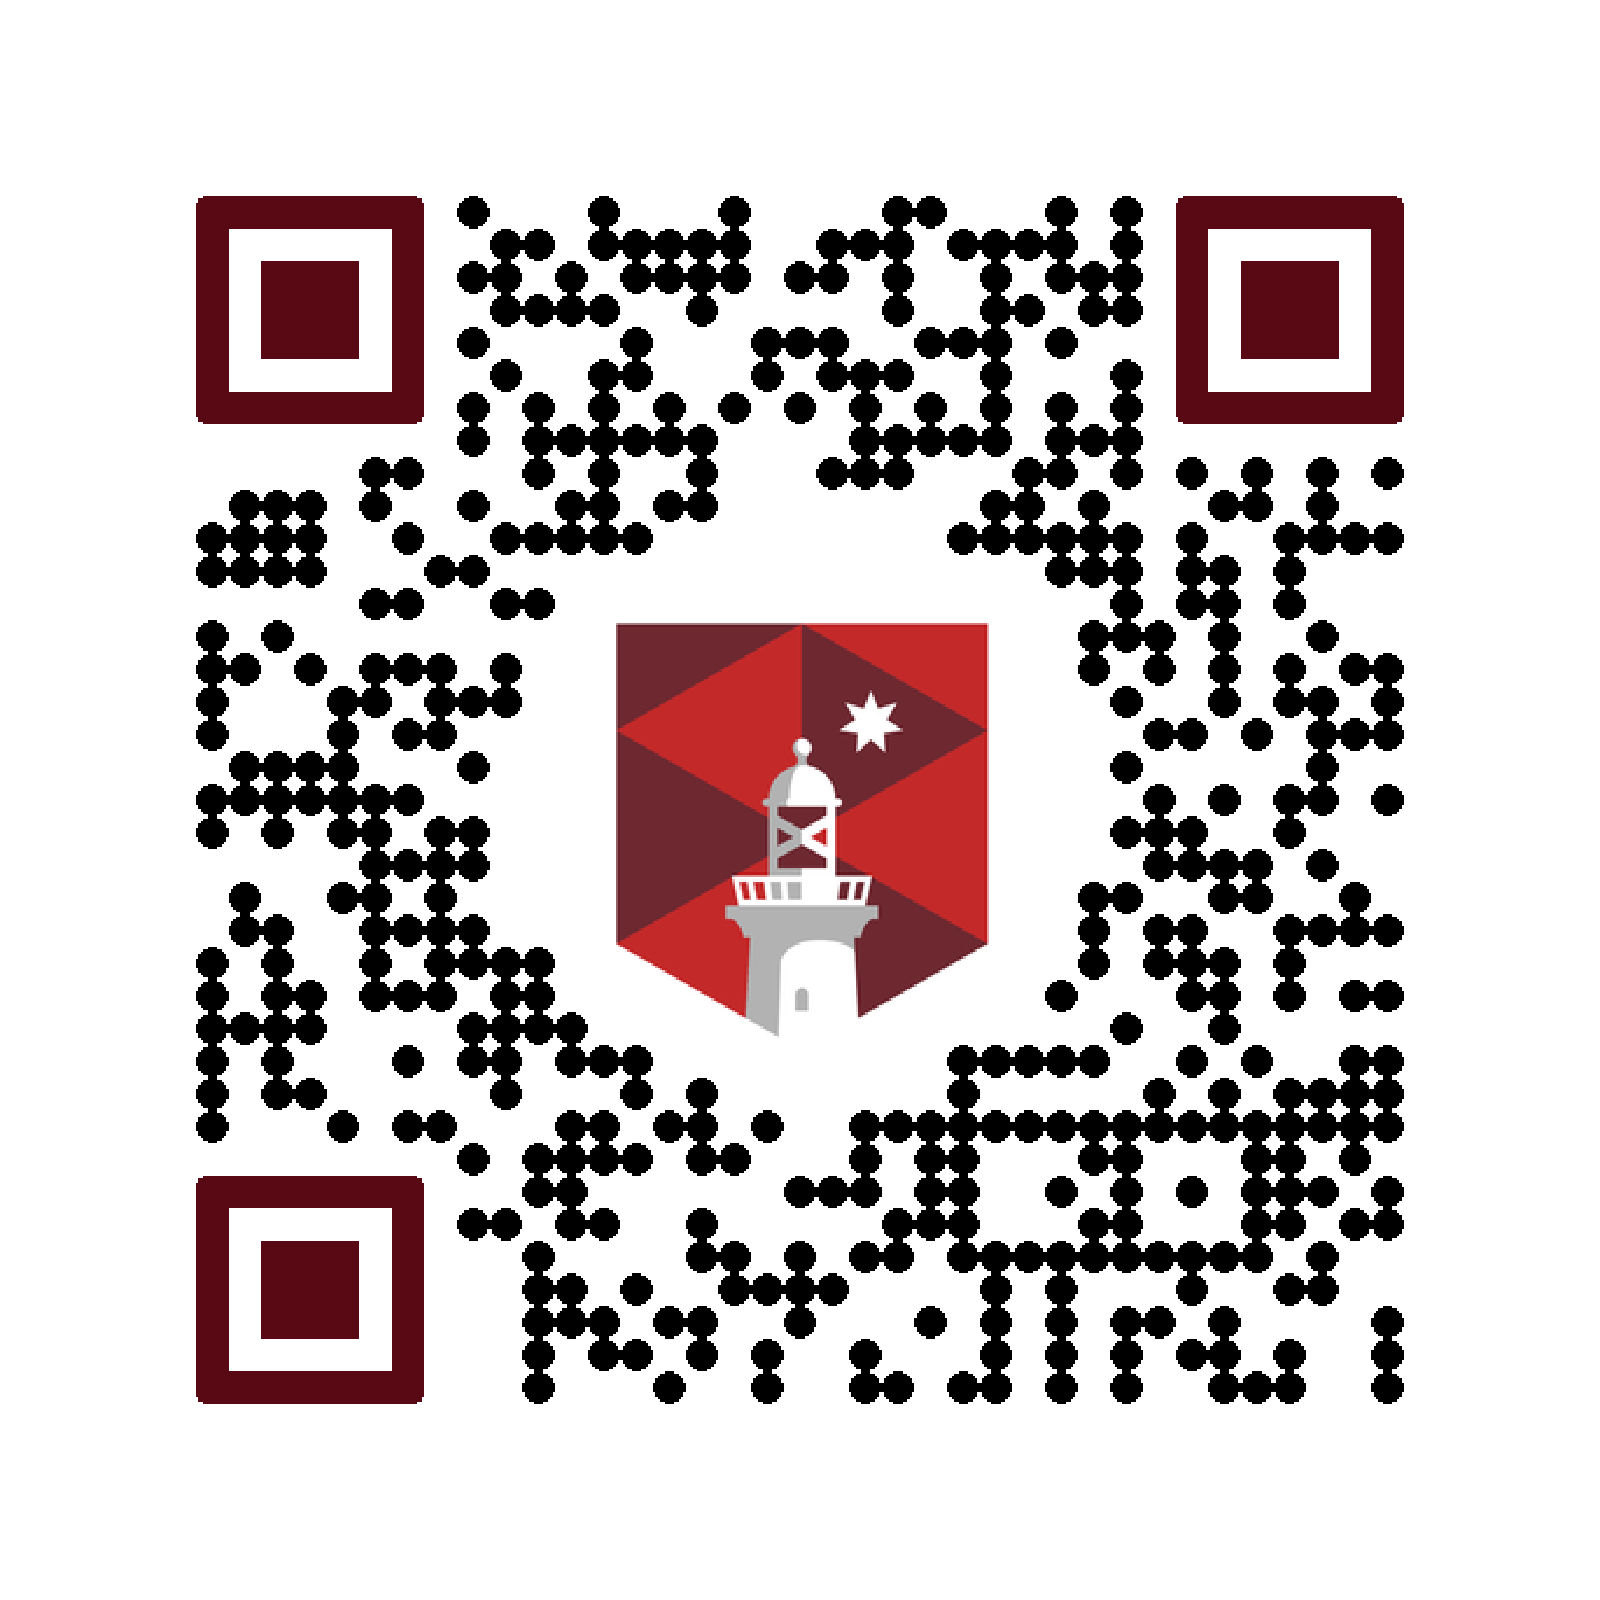
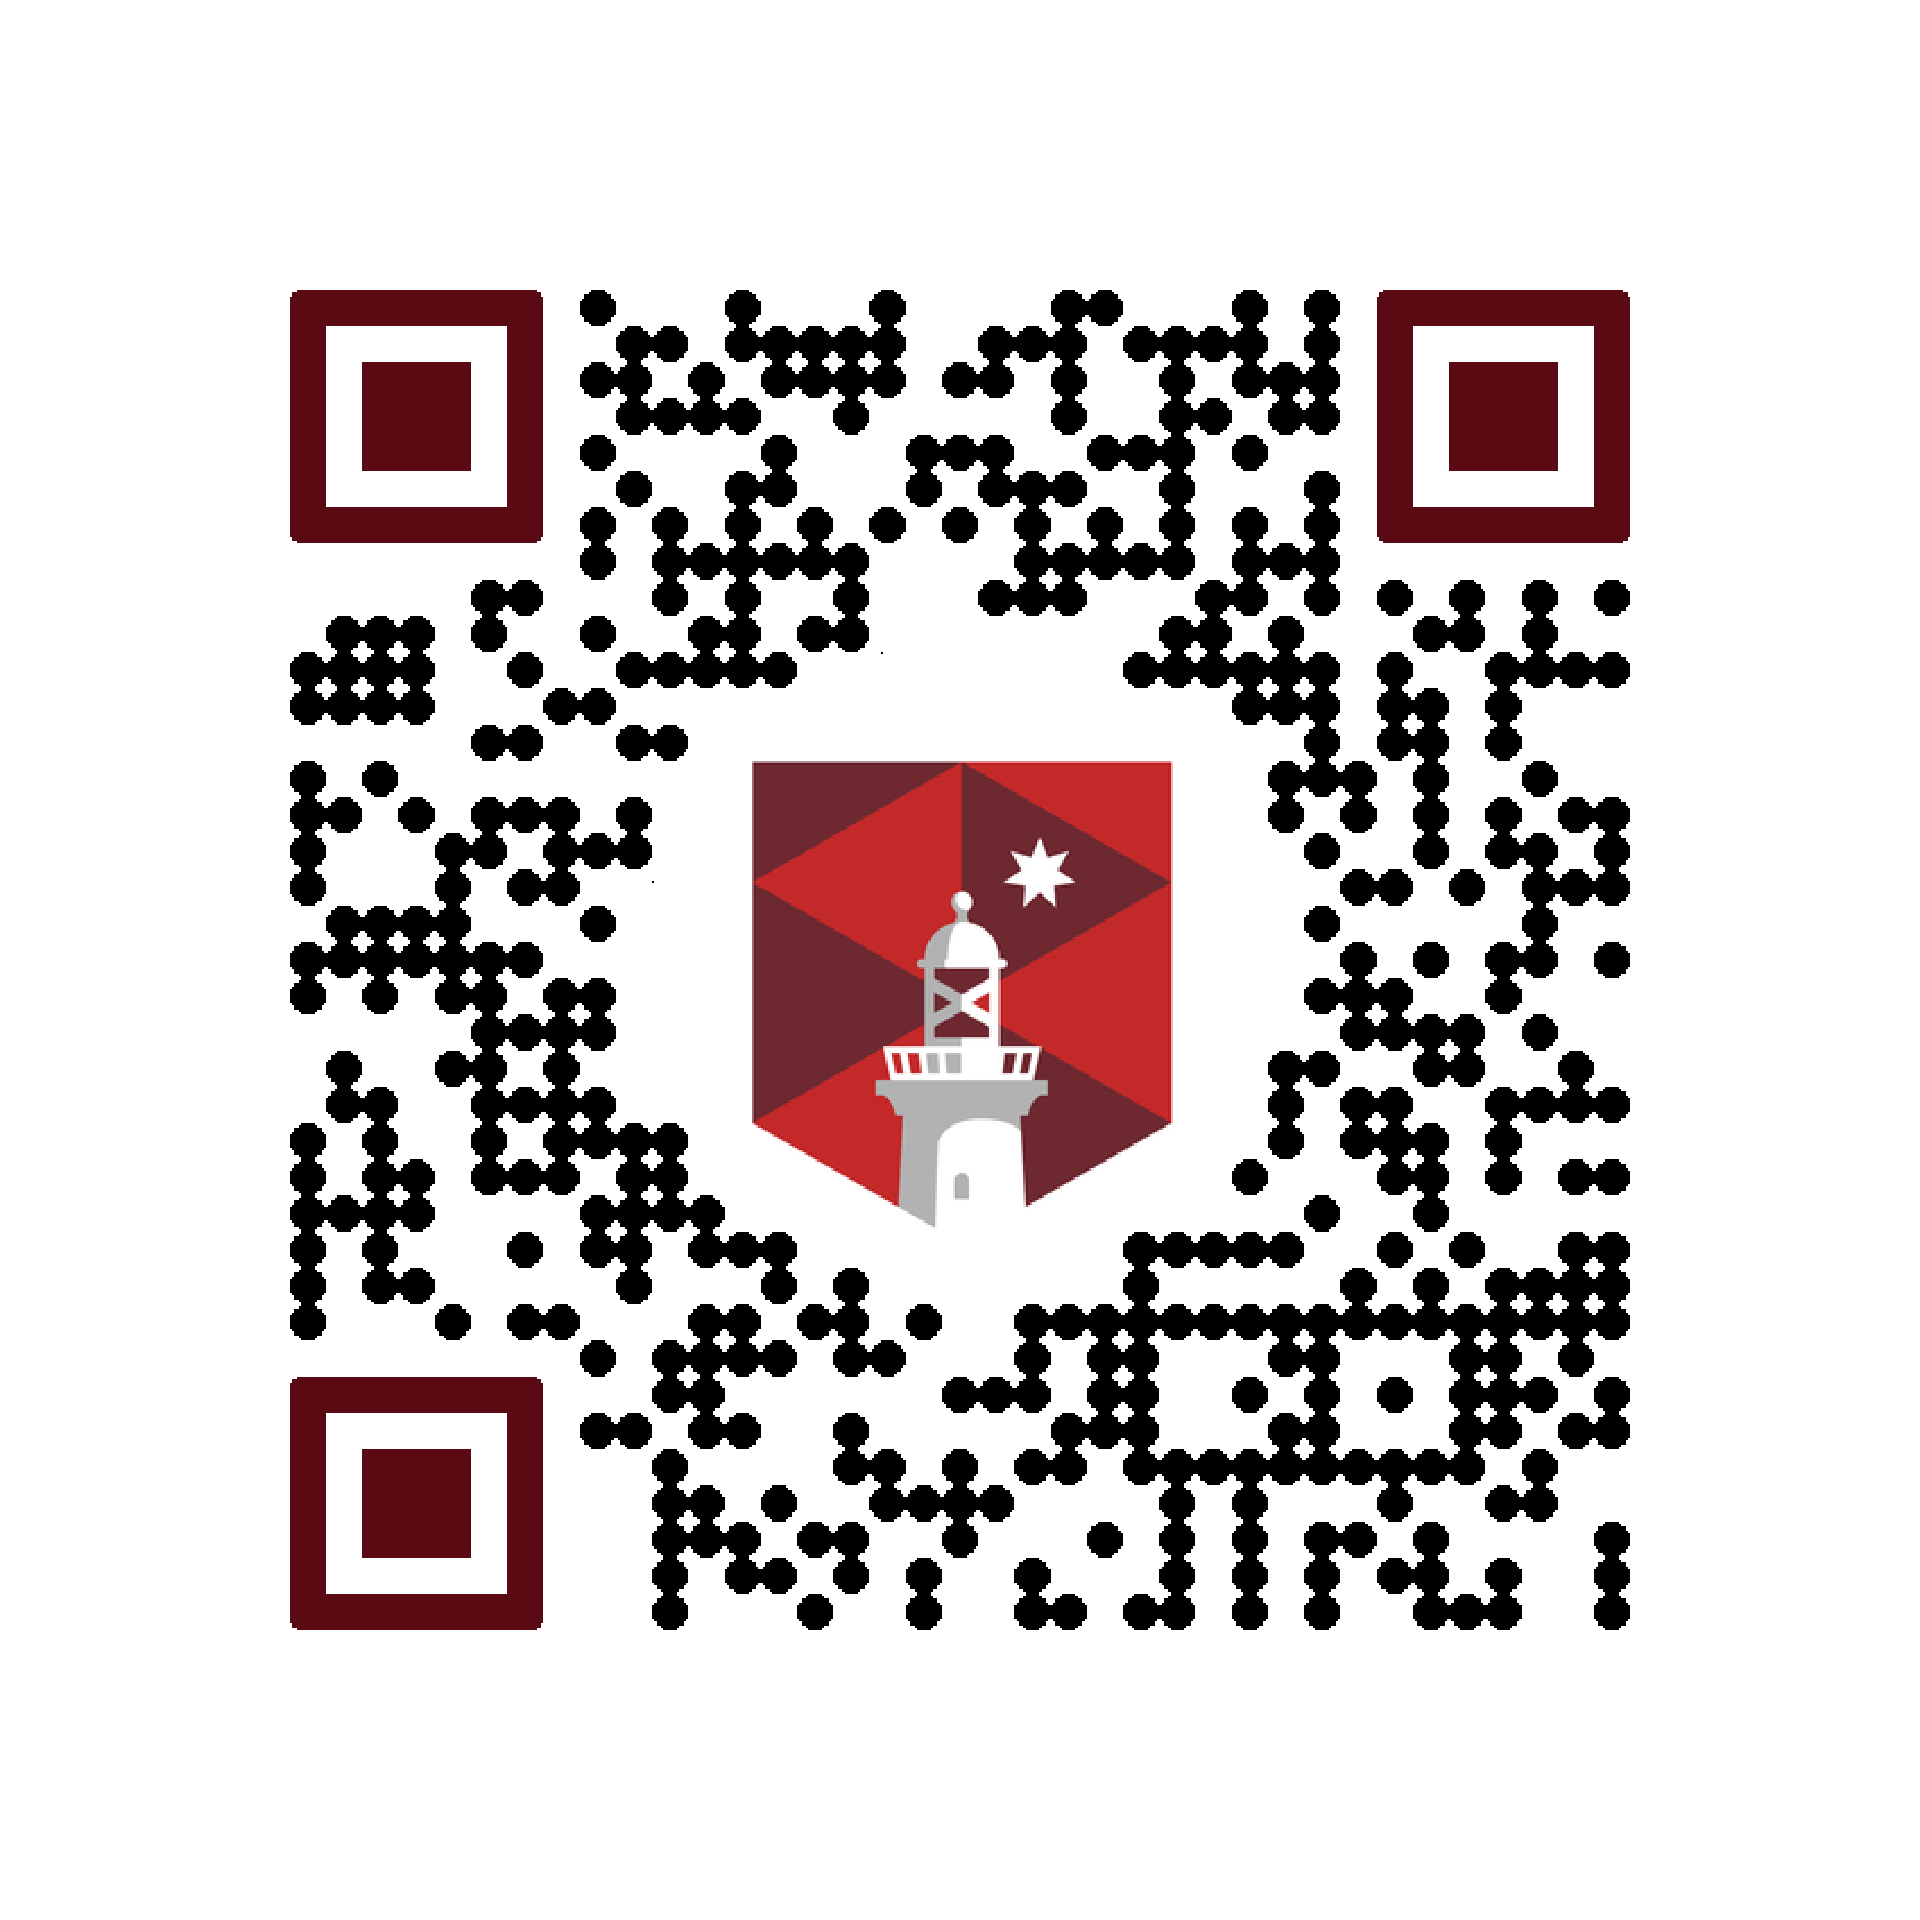
Strong global redundancy: pad=0.20, qr_scale=16, quiet zone=8, min size=1920; regenerate examples

Changed region(s): [[0.125, 0.125, 0.875, 0.875]]

diff --git a/src/branded_qr.py b/src/branded_qr.py
@@ -59,12 +59,12 @@ def make_branded_qr(
     logo_path: Optional[str] = None,
     *,
     target_frac: float = 0.234,
-    pad_frac: float = 0.22,
+    pad_frac: float = 0.20,
     smooth_sigma: float = 0.0,
     ring_thickness: int = 0,
     ring_color: Tuple[int, int, int, int] = (200, 200, 200, 255),
-    qr_scale: int = 14,
-    border_modules: int = 6,
+    qr_scale: int = 16,
+    border_modules: int = 8,
     error: str = "h",
     data_dark: str = "black",
     finder_from_logo: bool = True,
@@ -74,7 +74,7 @@ def make_branded_qr(
     save_path: Optional[str] = None,
     university: Optional[str] = None,
     enforce_occlusion_limit: bool = True,
-    occlusion_threshold: float = 0.16,
+    occlusion_threshold: float = 0.10,
     min_pad_frac: float = 0.24,
     min_target_frac: float = 0.22,
     finder_rounding: float = 0.3,  # fraction of qr_scale for finder corner radius (slightly more rounding)
@@ -82,7 +82,7 @@ def make_branded_qr(
     max_decode_attempts: int = 8,
     pad_step: float = 0.01,
     target_step: float = 0.005,
-    min_img_size: Optional[int] = 1600,
+    min_img_size: Optional[int] = 1920,
 ) -> Image.Image:
     """Generate a branded QR code with a circular inset and logo.
 
@@ -396,12 +396,12 @@ def main() -> None:
     parser.add_argument("--university", type=str, choices=["mq", "unisq", "sydney", "uq"], help="Preset branding: mq | unisq | sydney | uq")
     parser.add_argument("-o", "--output", dest="save_path", default="branded_qr.png", help="Output image path")
     parser.add_argument("--target-frac", type=float, default=0.234)
-    parser.add_argument("--pad-frac", type=float, default=0.22)
+    parser.add_argument("--pad-frac", type=float, default=0.20)
     parser.add_argument("--smooth-sigma", type=float, default=0.0)
     parser.add_argument("--ring-thickness", type=int, default=0)
     parser.add_argument("--ring-color", type=str, default="#c8c8c8")
-    parser.add_argument("--qr-scale", type=int, default=14)
-    parser.add_argument("--border-modules", type=int, default=6)
+    parser.add_argument("--qr-scale", type=int, default=16)
+    parser.add_argument("--border-modules", type=int, default=8)
     parser.add_argument("--error", type=str, default="h", choices=["l", "m", "q", "h"]) 
     parser.add_argument("--data-dark", type=str, default="black")
     parser.add_argument("--finder-from-logo", action="store_true", default=True)
@@ -409,7 +409,7 @@ def main() -> None:
     parser.add_argument("--module-shape", type=str, default="circle", choices=["circle", "square"]) 
     parser.add_argument("--edge-clearance", type=float, default=0.7)
     parser.add_argument("--enforce-occlusion-limit", action="store_true", default=True)
-    parser.add_argument("--occlusion-threshold", type=float, default=0.16)
+    parser.add_argument("--occlusion-threshold", type=float, default=0.10)
     parser.add_argument("--min-pad-frac", type=float, default=0.24)
     parser.add_argument("--min-target-frac", type=float, default=0.22)
     parser.add_argument("--finder-rounding", type=float, default=0.2)
@@ -417,7 +417,7 @@ def main() -> None:
     parser.add_argument("--max-decode-attempts", type=int, default=8)
     parser.add_argument("--pad-step", type=float, default=0.01)
     parser.add_argument("--target-step", type=float, default=0.005)
-    parser.add_argument("--min-img-size", type=int, default=1600)
+    parser.add_argument("--min-img-size", type=int, default=1920)
 
     args = parser.parse_args()
 
